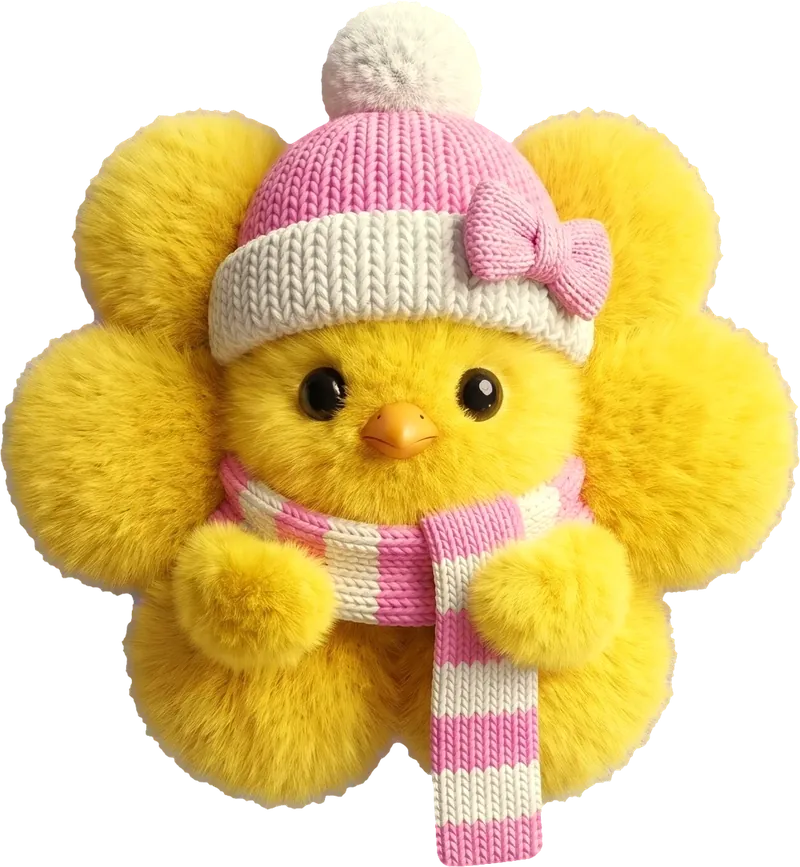
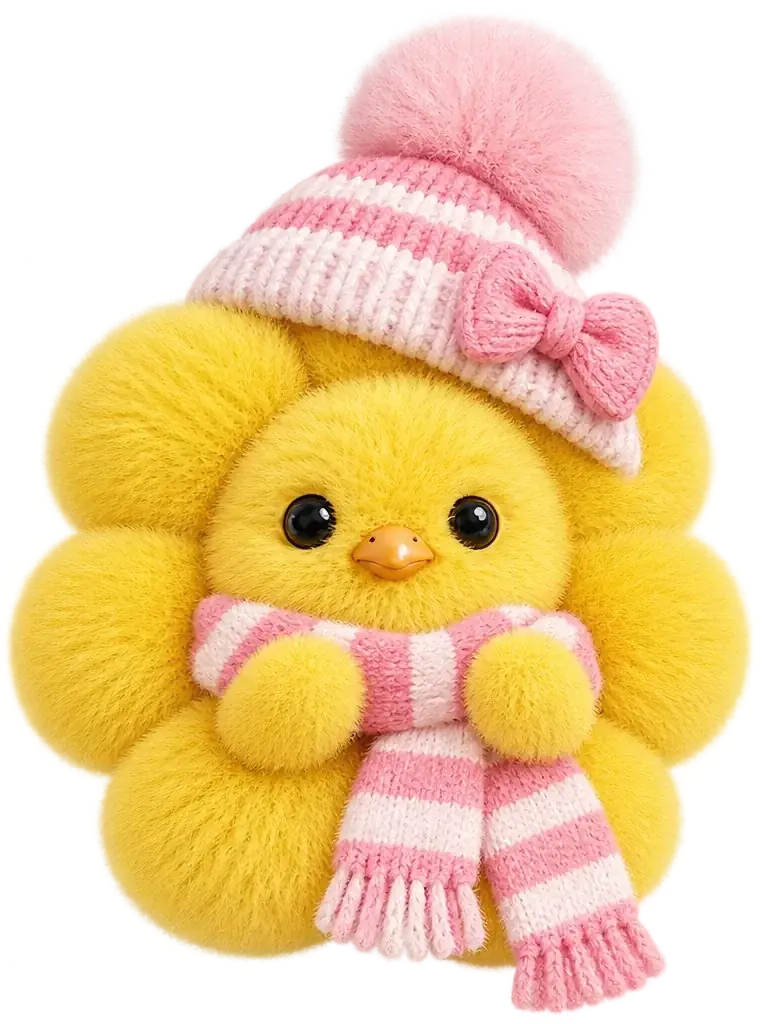
New HQ New Year chick with knife, code-drawn ornaments, two story cards side by side, fur over the honest sticker on desktop, slogan block layout, unused images removed

diff --git a/index.html b/index.html
@@ -199,7 +199,11 @@ h1{font-family:var(--display);font-weight:900;margin:0;line-height:.95;letter-sp
 .btn.hot{background:var(--hot);border-color:var(--hot);color:#fff}
 .btn.ghost{background:transparent}
 .card-row{display:flex;gap:14px;align-items:center;padding-top:14px;border-top:2px dashed var(--blush-deep)}
-.card-row img{width:86px;aspect-ratio:9/16;border-radius:10px;border:2px solid var(--ink);flex:none;object-fit:cover;background:var(--blush)}
+.thumbs{display:flex;gap:8px;flex:none}
+.thumb{border:0;padding:0;background:none;border-radius:12px;cursor:pointer;outline:3px solid transparent;outline-offset:2px;transition:outline-color .15s,transform .15s}
+.thumb.on{outline-color:var(--hot)}
+.thumb:hover{transform:translateY(-2px)}
+.card-row img{width:64px;display:block;aspect-ratio:9/16;border-radius:10px;border:2px solid var(--ink);flex:none;object-fit:cover;background:var(--blush)}
 .card-row h2{font-family:var(--display);font-weight:800;font-size:16px;margin:0 0 4px;line-height:1.2}
 .card-row p{margin:0 0 10px;font-size:14px;color:var(--ink-soft);font-weight:600}
 .note{font-size:13px;color:var(--ink-soft);font-weight:700;margin:0}
@@ -282,8 +286,12 @@ body:not(.ny) .garland{display:none}
 .honest span{display:block;font-weight:600;font-size:14px;margin-top:4px;opacity:.85}
 .honest{position:relative;z-index:4}
 .toy{display:none}
+.fur{position:absolute;inset:-8px;width:calc(100% + 16px);height:calc(100% + 16px);z-index:2;pointer-events:none}
+.fur-tag{position:absolute;left:14px;top:-14px;z-index:3;font:800 12px var(--body);background:var(--ink);color:var(--paper);padding:5px 10px;border-radius:999px;pointer-events:none;transition:opacity .4s}
+.honest.combed .fur-tag{opacity:0}
 .ny .toy{display:block;position:absolute;right:-3px;top:10px;width:2px;height:24px;background:#C9A45C;transform-origin:50% 0;animation:toy 3.2s ease-in-out infinite}
-.ny .toy img{position:absolute;left:50%;top:100%;width:30px;height:auto;transform:translate(-50%,-4px)}
+.ny .toy svg{position:absolute;left:50%;top:100%;transform:translate(-50%,-4px);overflow:visible}
+.toy{z-index:3}
 @keyframes toy{0%,100%{transform:rotate(-7deg)}50%{transform:rotate(7deg)}}
 .cta{background:radial-gradient(60% 70% at 0 100%,rgba(255,210,31,.14),transparent 70%),linear-gradient(160deg,#3B1741 0%,var(--ink) 60%,#1C0720 100%);color:var(--paper);border-radius:28px;padding:clamp(22px,5vw,44px);display:grid;gap:20px;position:relative;overflow:hidden}
 .cta::after{content:"";position:absolute;right:-60px;top:-60px;width:220px;height:220px;border-radius:50%;background:radial-gradient(circle, rgba(229,0,122,.7), transparent 70%);pointer-events:none}
@@ -363,7 +371,7 @@ body:not(.ny) .snowfall, body:not(.ny) .snowcap{display:none}   /* snow belongs 
 .decor-frame .game{padding-top:calc(330px*var(--s) + 4px)}
 .decor-frame .offer{padding-bottom:calc(240px*var(--s) + 48px)}
 /* New Year chick in a hat is taller: narrower box, same bottom line */
-.ny .rig{left:9%;width:76%;aspect-ratio:1000/1084}   /* same width as the base chick, so both look the same size; only the hat adds height */
+.ny .rig{left:12%;width:70%;aspect-ratio:768/1024}   /* same width as the base chick, so both look the same size; only the hat adds height */
 /* spin the knife round to switch the season: a grab zone over the blade and a turning dashed ring as the hint */
 .knife-hit{position:absolute;left:50%;top:18%;width:52%;height:52%;z-index:6;border-radius:50%;cursor:grab;touch-action:none;-webkit-tap-highlight-color:transparent}
 .knife-hit:active{cursor:grabbing}
@@ -399,7 +407,9 @@ body:not(.ny) .snowfall, body:not(.ny) .snowcap{display:none}   /* snow belongs 
   /* the prize card sits in the middle, as wide as its longest sentence; one sentence per line */
   /* «Беру тільки те…» is stuck on the top right corner of the dark slogan block */
   .honest{justify-self:end;position:relative;z-index:4;max-width:360px;margin:0 32px -84px 0;transform:rotate(2.5deg);font-size:18px}
-  .slogan{max-width:62%}
+  .cta{grid-template-columns:minmax(0,1fr) auto;align-items:center;column-gap:32px;padding-top:56px}
+  .slogan{max-width:none}
+  .cta-row{align-self:end;justify-self:end}
 }
 @media (prefers-reduced-motion:reduce){
   html{scroll-behavior:auto}
@@ -462,12 +472,14 @@ body:not(.ny) .snowfall, body:not(.ny) .snowcap{display:none}   /* snow belongs 
         <button class="btn ghost" id="enoughBtn" type="button">Досить, полегшало</button>
       </div>
       <div class="card-row">
-        <img id="cardThumb" alt="Картка для сторіс">
+        <div class="thumbs" role="radiogroup" aria-label="Стиль картки">
+          <button type="button" class="thumb on" data-s="classic" role="radio" aria-checked="true"><img id="cardThumb" alt="Класична картка"></button>
+          <button type="button" class="thumb" data-s="poster" role="radio" aria-checked="false"><img id="cardThumb2" alt="Картка-постер"></button>
+        </div>
         <div>
           <h2 id="resultTitle">Зарізано</h2>
-          <p>Картка для сторіс готова. Відміть того, кого це теж бісить.</p>
+          <p>Дві картки на вибір: обери свою і збережи. Відміть того, кого це теж бісить.</p>
           <button class="btn" id="saveBtn" type="button">Зберегти для сторіс</button>
-          <button class="btn ghost" id="styleBtn" type="button">Інший стиль</button>
         </div>
       </div>
       <p class="note" id="saveNote" hidden></p>
@@ -540,7 +552,7 @@ body:not(.ny) .snowfall, body:not(.ny) .snowcap{display:none}   /* snow belongs 
       </div>
     </div>
 
-    <p class="honest">Беру тільки те, що зроблю добре.<span>Якщо задача не моя, скажу одразу і чесно.</span><i class="toy" aria-hidden="true"><img src="xf-ball.webp" alt=""></i></p>
+    <p class="honest">Беру тільки те, що зроблю добре.<span>Якщо задача не моя, скажу одразу і чесно.</span><i class="toy" aria-hidden="true"><svg viewBox="-20 -24 40 46" width="30" height="34"><defs><radialGradient id="tb" cx=".35" cy=".35" r=".75"><stop offset="0" stop-color="#FF8CC4"/><stop offset=".45" stop-color="#E5007A"/><stop offset="1" stop-color="#7E0042"/></radialGradient><linearGradient id="tc"><stop offset="0" stop-color="#B8893A"/><stop offset=".5" stop-color="#F6DC8C"/><stop offset="1" stop-color="#A87A2E"/></linearGradient></defs><rect x="-5" y="-22" width="10" height="5" fill="url(#tc)"/><circle r="18" fill="url(#tb)"/><ellipse cx="-7" cy="-8" rx="4" ry="2.4" fill="#fff" opacity=".75" transform="rotate(-35 -7 -8)"/></svg></i></p>
 
     <div class="cta">
       <p class="slogan">Ідеям потрібна форма. <span>Тобі&nbsp;-&nbsp;одна&nbsp;я.</span></p>
@@ -760,8 +772,8 @@ const NY_BY_DATE=(()=>{ const n=new Date(); return n>=new Date(NY_FROM+"T00:00:0
 let NY = QS.get("ny")==="1" ? true : QS.get("ny")==="0" ? false : NY_BY_DATE;
 /* Positions are % of each chick image */
 const CHICKS={
-  ny:  {ny:true, src:"ny-chick.webp", blink:"ny-blink.webp", paw:"ny-paw.webp", ar:1084/1000, w:1000, h:1084, bow:false,
-        knife:{l:58.4,t:50.6,w:46}, pawPos:{l:58.6,t:58.3,w:21.6}, blinkPos:{l:30.8,t:37.73,w:38.6}},
+  ny:  {ny:true, src:"ny-chick.webp", blink:"ny-blink.webp", paw:"ny-paw.webp", ar:1024/768, w:768, h:1024, bow:false,
+        knife:{l:58,t:54.8,w:46}, pawPos:{l:68.49-10.16,t:68.36-7.62,w:20.31}, blinkPos:{l:0,t:0,w:100}},
   base:{ny:false, src:"v2-chick.webp", blink:"v2-blink.webp", paw:"v2-paw.webp", ar:743/760, w:760, h:743, bow:true,
         knife:{l:58.13,t:43.34,w:50}, pawPos:{l:58.29,t:52.76,w:23.68}, blinkPos:{l:32.43,t:36.3,w:41.13}}
 };
@@ -915,7 +927,19 @@ const DECO=(()=>{
 
   /* ---- garland round the bridge and both offer cards: a twisted cord waving across the border,
      warm pearl lights where it turns, a few ornaments hanging off it (no fur, Diana 25.11) ---- */
-  const orn={ball:loadC("xf-ball.webp"), star:loadC("xf-star.webp")};
+  /* glossy ball with a gold cap and a felt star, drawn in code */
+  const drawOrn=(g,kind,sz)=>{
+    if(kind==="ball"){ const r=sz/2;
+      const b=g.createRadialGradient(-r*.35,-r*.35,r*.1,0,0,r); b.addColorStop(0,"#FF8CC4"); b.addColorStop(.45,"#E5007A"); b.addColorStop(1,"#7E0042");
+      g.fillStyle=b; g.beginPath(); g.arc(0,0,r,0,7); g.fill();
+      g.fillStyle="rgba(255,255,255,.75)"; g.beginPath(); g.ellipse(-r*.38,-r*.42,r*.22,r*.13,-.6,0,7); g.fill();
+      const cg=g.createLinearGradient(-r*.3,0,r*.3,0); cg.addColorStop(0,"#B8893A"); cg.addColorStop(.5,"#F6DC8C"); cg.addColorStop(1,"#A87A2E");
+      g.fillStyle=cg; g.fillRect(-r*.28,-r*1.12,r*.56,r*.26);
+    } else { const R=sz/2, ri=R*.48; g.beginPath();
+      for(let i=0;i<10;i++){ const a=-Math.PI/2+i*Math.PI/5, rr=i%2?ri:R; g.lineTo(Math.cos(a)*rr,Math.sin(a)*rr); } g.closePath();
+      const sg=g.createLinearGradient(-R,-R,R,R); sg.addColorStop(0,"#FFA8D0"); sg.addColorStop(1,"#EC5C9E");
+      g.save(); g.shadowColor="rgba(120,20,70,.3)"; g.shadowBlur=3; g.shadowOffsetY=1.5; g.fillStyle=sg; g.fill(); g.restore();
+      g.lineJoin="round"; g.lineWidth=1.2; g.strokeStyle="rgba(255,255,255,.45)"; g.stroke(); } };
   const offerIn=document.querySelector(".offer-in"), garlands=[]; let lightsOn=false;
   function garland(el, hang, lit=true){
     if(!el) return;
@@ -950,15 +974,14 @@ const DECO=(()=>{
         else { b.addColorStop(0,"#FFFFFF"); b.addColorStop(.5,"#F1ECE6"); b.addColorStop(1,"#C9BCB0"); }
         g.fillStyle=b; g.beginPath(); g.arc(px,py,r,0,7); g.fill(); }
       /* ornaments: [x, y as a share of the box (the nearest point of the border is used), kind, size px, tilt] */
-      const [ball,star]=await Promise.all([orn.ball,orn.star]);
       for(const [fx,fy,kind,sz,rot] of hang){
-        const im=kind==="ball"?ball:star; if(!im) continue;
+
         const tx=M+fx*w, ty=M+fy*h; let i=0, best=1e9; pts.forEach((p,j)=>{ const dd=(p[0]-tx)**2+(p[1]-ty)**2; if(dd<best){ best=dd; i=j; } });
         const [px,py]=at(i), nrm=pts[i];
-        const ih=sz*im.naturalHeight/im.naturalWidth;
+        const ih=sz;
         g.save(); g.translate(px,py);
         if(kind==="ball" && nrm[3]>.5){ g.strokeStyle="#C9A45C"; g.lineWidth=1.4; g.beginPath(); g.moveTo(0,0); g.lineTo(0,10); g.stroke(); g.translate(0,10+ih/2); }
-        g.rotate(rot); g.drawImage(im,-sz/2,-ih/2,sz,ih); g.restore();
+        g.rotate(rot); drawOrn(g,kind,sz); g.restore();
       }
     }
     garlands.push(draw);
@@ -1191,7 +1214,7 @@ async function makePoster(t){
   g.save(); g.strokeStyle="#FFF6FA"; g.lineCap="round"; g.lineWidth=14; g.shadowColor="#E5007A"; g.shadowBlur=24; g.beginPath(); g.moveTo(70,yb-fs*.05); g.lineTo(1010,y0-fs*.8); g.stroke(); g.restore();   /* one slash across all lines */
   g.fillStyle="#2A0F2B"; g.font="400 56px Unbounded"; g.fillText("зарізано.",540,yb+fs*.2+90);
   /* the chick sits on the clouds */
-  const cw=CHICK.ny?520:560, ch=cw*CHICK.ar, X=(1080-cw)/2, Y=Math.max(yb+fs*.2+150, 1660-ch);
+  const cw=CHICK.ny?470:560, ch=cw*CHICK.ar, X=(1080-cw)/2, Y=Math.max(yb+fs*.2+150, 1660-ch);
   if(body) g.drawImage(body,X,Y,cw,ch);
   if(bow && CHICK.bow){ const bw=cw*.27, bh=bw*bow.naturalHeight/bow.naturalWidth; g.save(); g.translate(X+cw*.37+bw/2,Y-ch*.02+bh/2); g.rotate(-9*Math.PI/180); g.drawImage(bow,-bw/2,-bh/2,bw,bh); g.restore(); }
   if(knife){ const K=CHICK.knife, kw=cw*K.w/100, kh=kw*203/360, gx=X+cw*K.l/100+kw*.24, gy=Y+ch*K.t/100+kh*.70; g.save(); g.translate(gx,gy); g.rotate(-18*Math.PI/180); g.drawImage(knife,-kw*.24,-kh*.70,kw,kh); g.restore(); }
@@ -1200,8 +1223,8 @@ async function makePoster(t){
   g.fillStyle="#FFF6FA"; g.textBaseline="middle"; fitFont(g,CONFIG.cardFooter,800,38,"Manrope",820,22); g.fillText(CONFIG.cardFooter,540,1833);
   return new Promise(res=>c.toBlob(b=>res(b),"image/png"));
 }
-async function makeCard(t){
-  if(cardStyle==="poster") return makePoster(t);
+async function makeCard(t,style=cardStyle){
+  if(style==="poster") return makePoster(t);
   const [body,knife,paw,bow,...feathers]=await cardAssets(); await fontsReady;
   const c=document.createElement("canvas"); c.width=1080;c.height=1920; const g=c.getContext("2d");
   g.fillStyle="#FFD9EC"; g.fillRect(0,0,1080,1920);
@@ -1241,7 +1264,7 @@ async function makeCard(t){
   const spots=[[150,880,-.6,120],[930,840,.7,110],[110,1300,.3,90],[985,1250,-.4,100],[230,1640,1.1,70],[860,1660,-1,80]];
   spots.forEach(([x,y,r,s],i)=>{const im=feathers[i%4]; if(!im) return; g.save(); g.translate(x,y); g.rotate(r); g.globalAlpha=.95; g.drawImage(im,-s/2,-s/2*im.naturalHeight/im.naturalWidth,s,s*im.naturalHeight/im.naturalWidth); g.restore();});
   // chick
-  const cw=CHICK.ny?700:760, ch=cw*CHICK.ar, X=(1080-cw)/2, Y=CHICK.ny?Math.max(870,qy+20):Math.max(900,qy+60);   /* never under the quip */
+  const cw=CHICK.ny?600:760, ch=cw*CHICK.ar, X=(1080-cw)/2, Y=CHICK.ny?Math.max(870,qy+20):Math.max(900,qy+60);   /* never under the quip */
   g.save(); g.fillStyle="rgba(110,20,70,.22)"; g.filter&&(g.filter="blur(18px)"); g.beginPath(); g.ellipse(X+cw/2,Y+ch*.98,cw*.38,40,0,0,7); g.fill(); g.restore();
   if(body) g.drawImage(body,X,Y,cw,ch);
   if(bow && CHICK.bow){const bw=cw*.27, bh=bw*bow.naturalHeight/bow.naturalWidth; g.save(); g.translate(X+cw*.37+bw/2, Y-ch*.02+bh/2); g.rotate(-9*Math.PI/180); g.drawImage(bow,-bw/2,-bh/2,bw,bh); g.restore();}
@@ -1251,17 +1274,18 @@ async function makeCard(t){
   foot();
   return new Promise(res=>c.toBlob(b=>res(b),"image/png"));
 }
-$("styleBtn").onclick=async()=>{
-  if(!lastWord) return; cardStyle = cardStyle==="poster" ? "classic" : "poster"; track("card_style",{style:cardStyle});
-  $("styleBtn").disabled=true;
-  try{ const b=await Promise.race([makeCard(lastWord), wait(7000).then(()=>null)]); if(b){ cardBlob=b; if(cardUrl) URL.revokeObjectURL(cardUrl); cardUrl=URL.createObjectURL(b); $("cardThumb").src=cardUrl; } }catch(e){}
-  $("styleBtn").disabled=false;
-};
+/* both styles are made at once and shown side by side; the chosen one is saved */
+const cards={classic:null,poster:null}, cardUrls={classic:"",poster:""};
+function pickCard(st){ cardStyle=st; cardBlob=cards[st]; cardUrl=cardUrls[st];
+  document.querySelectorAll(".thumb").forEach(b=>{ const on=b.dataset.s===st; b.classList.toggle("on",on); b.setAttribute("aria-checked",on); });
+  $("saveBtn").disabled=!cardBlob; }
+document.querySelectorAll(".thumb").forEach(b=>b.addEventListener("click",()=>{ pickCard(b.dataset.s); track("card_style",{style:b.dataset.s}); }));
 async function showResult(t){
   cardBlob=null;
   try{
-    const b=await Promise.race([makeCard(t), wait(7000).then(()=>null)]);
-    if(b){ cardBlob=b; if(cardUrl) URL.revokeObjectURL(cardUrl); cardUrl=URL.createObjectURL(b); $("cardThumb").src=cardUrl; }
+    const [a,b]=await Promise.all(["classic","poster"].map(st=>Promise.race([makeCard(t,st), wait(7000).then(()=>null)]).catch(()=>null)));
+    [["classic",a,"cardThumb"],["poster",b,"cardThumb2"]].forEach(([st,bl,id])=>{ if(cardUrls[st]) URL.revokeObjectURL(cardUrls[st]); cards[st]=bl; cardUrls[st]=bl?URL.createObjectURL(bl):""; $(id).src=cardUrls[st]; });
+    pickCard(cards[cardStyle]?cardStyle:"classic");
   }catch(e){}
   $("saveBtn").disabled=!cardBlob;
   $("resultTitle").textContent="Зарізано: «"+t+"»"; $("saveNote").hidden=true; $("result").hidden=false; if(DECO) DECO.capResult();
@@ -1338,6 +1362,42 @@ else{
   setTimeout(()=>{ if(!busy && !sessionCuts && !typedOnce) say("Ну? Пиши. Я чекаю.",0); },13000);
   /* the season secret: a nudge after a while, if nobody has found it */
   setTimeout(()=>{ if(!busy && !SEASON.used) say(NY ? "Зими забагато? Кинь у мене сніжку." : "Бачиш кулю? Там я, але в шапці. Струсни.",5000); },7000);
+}
+
+/* Desktop: «Беру тільки те, що зроблю добре» lies under yellow fur. Each hair is a real stroke; the cursor pushes the hairs
+   aside and they settle back slowly, so the text shows where you comb (Diana 25.11). Phones keep the plain sticker for now. */
+if(matchMedia("(pointer:fine) and (min-width:900px)").matches && !reduce){
+  const el=document.querySelector(".honest"), c=document.createElement("canvas"); c.className="fur"; c.setAttribute("aria-hidden","true"); el.append(c);
+  const tag=document.createElement("span"); tag.className="fur-tag"; tag.textContent="Розчеши мене"; el.append(tag);
+  const g=c.getContext("2d"), P=8, COLS=["#E9A800","#F7C300","#FFD21F","#FFE15C","#FFF0A6"];
+  let W=0,H=0,hairs=[],mx=-999,my=-999,inside=false,raf=0,combed=false;
+  const build=()=>{ const d=Math.min(devicePixelRatio||1,2); W=el.offsetWidth; H=el.offsetHeight; c.width=(W+2*P)*d; c.height=(H+2*P)*d; g.setTransform(d,0,0,d,0,0); hairs=[];
+    for(let y=-2;y<H+2;y+=2.6) for(let x=-2;x<W+2;x+=2.6){ const a=1.2+Math.random()*.7;   /* lying down and to the right, like stroked fur */
+      hairs.push({x:x+Math.random()*2.6+P,y:y+Math.random()*2.6+P,a,len:9+Math.random()*9,c:(Math.random()*COLS.length)|0,s:0,dx:0,dy:0,k:Math.random()}); }
+    draw(); };
+  function draw(){
+    g.clearRect(0,0,W+2*P,H+2*P);
+    /* undercoat, with holes where the fur is parted */
+    g.fillStyle="#EDB000"; g.beginPath(); g.roundRect?g.roundRect(P,P,W,H,[4,18,18,18]):g.rect(P,P,W,H); g.fill();
+    g.save(); g.globalCompositeOperation="destination-out"; g.beginPath();
+    for(const h of hairs) if(h.s>.15){ g.moveTo(h.x+7*h.s,h.y); g.arc(h.x,h.y,7*h.s,0,7); } g.fill(); g.restore();
+    const paths=COLS.map(()=>new Path2D());
+    for(const h of hairs){ const s=h.s, sx=h.x+h.dx*s*22, sy=h.y+h.dy*s*22, ex=sx+Math.cos(h.a)*h.len*(1-.5*s)+h.dx*s*20, ey=sy+Math.sin(h.a)*h.len*(1-.5*s)+h.dy*s*20;
+      const p=paths[h.c]; p.moveTo(sx,sy); p.quadraticCurveTo((sx+ex)/2+Math.sin(h.a)*2*h.k,(sy+ey)/2-Math.cos(h.a)*2*h.k,ex,ey); }
+    g.lineCap="round"; g.lineWidth=1.25; COLS.forEach((col,i)=>{ g.strokeStyle=col; g.stroke(paths[i]); });
+  }
+  function tick(){
+    let moving=false; const R=40;
+    for(const h of hairs){ let t=0;
+      if(inside){ const dx=h.x-mx, dy=h.y-my, d=Math.hypot(dx,dy); if(d<R){ t=1-d/R; h.dx=dx/(d||1); h.dy=dy/(d||1); } }
+      h.s += t>h.s ? (t-h.s)*.5 : (t-h.s)*.009;   /* quick to part, slow to settle back */
+      if(h.s>.01) moving=true; }
+    draw(); raf=(moving||inside)?requestAnimationFrame(tick):0;
+  }
+  el.addEventListener("pointermove",e=>{ const r=c.getBoundingClientRect(); mx=e.clientX-r.left; my=e.clientY-r.top; inside=true;
+    if(!combed){ combed=true; el.classList.add("combed"); track("fur_comb"); } if(!raf) raf=requestAnimationFrame(tick); },{passive:true});
+  el.addEventListener("pointerleave",()=>{ inside=false; });
+  build(); addEventListener("resize",build); if(document.fonts) document.fonts.ready.then(build);
 }
 
 /* the chick sheds a loose feather now and then, while it is on screen */
